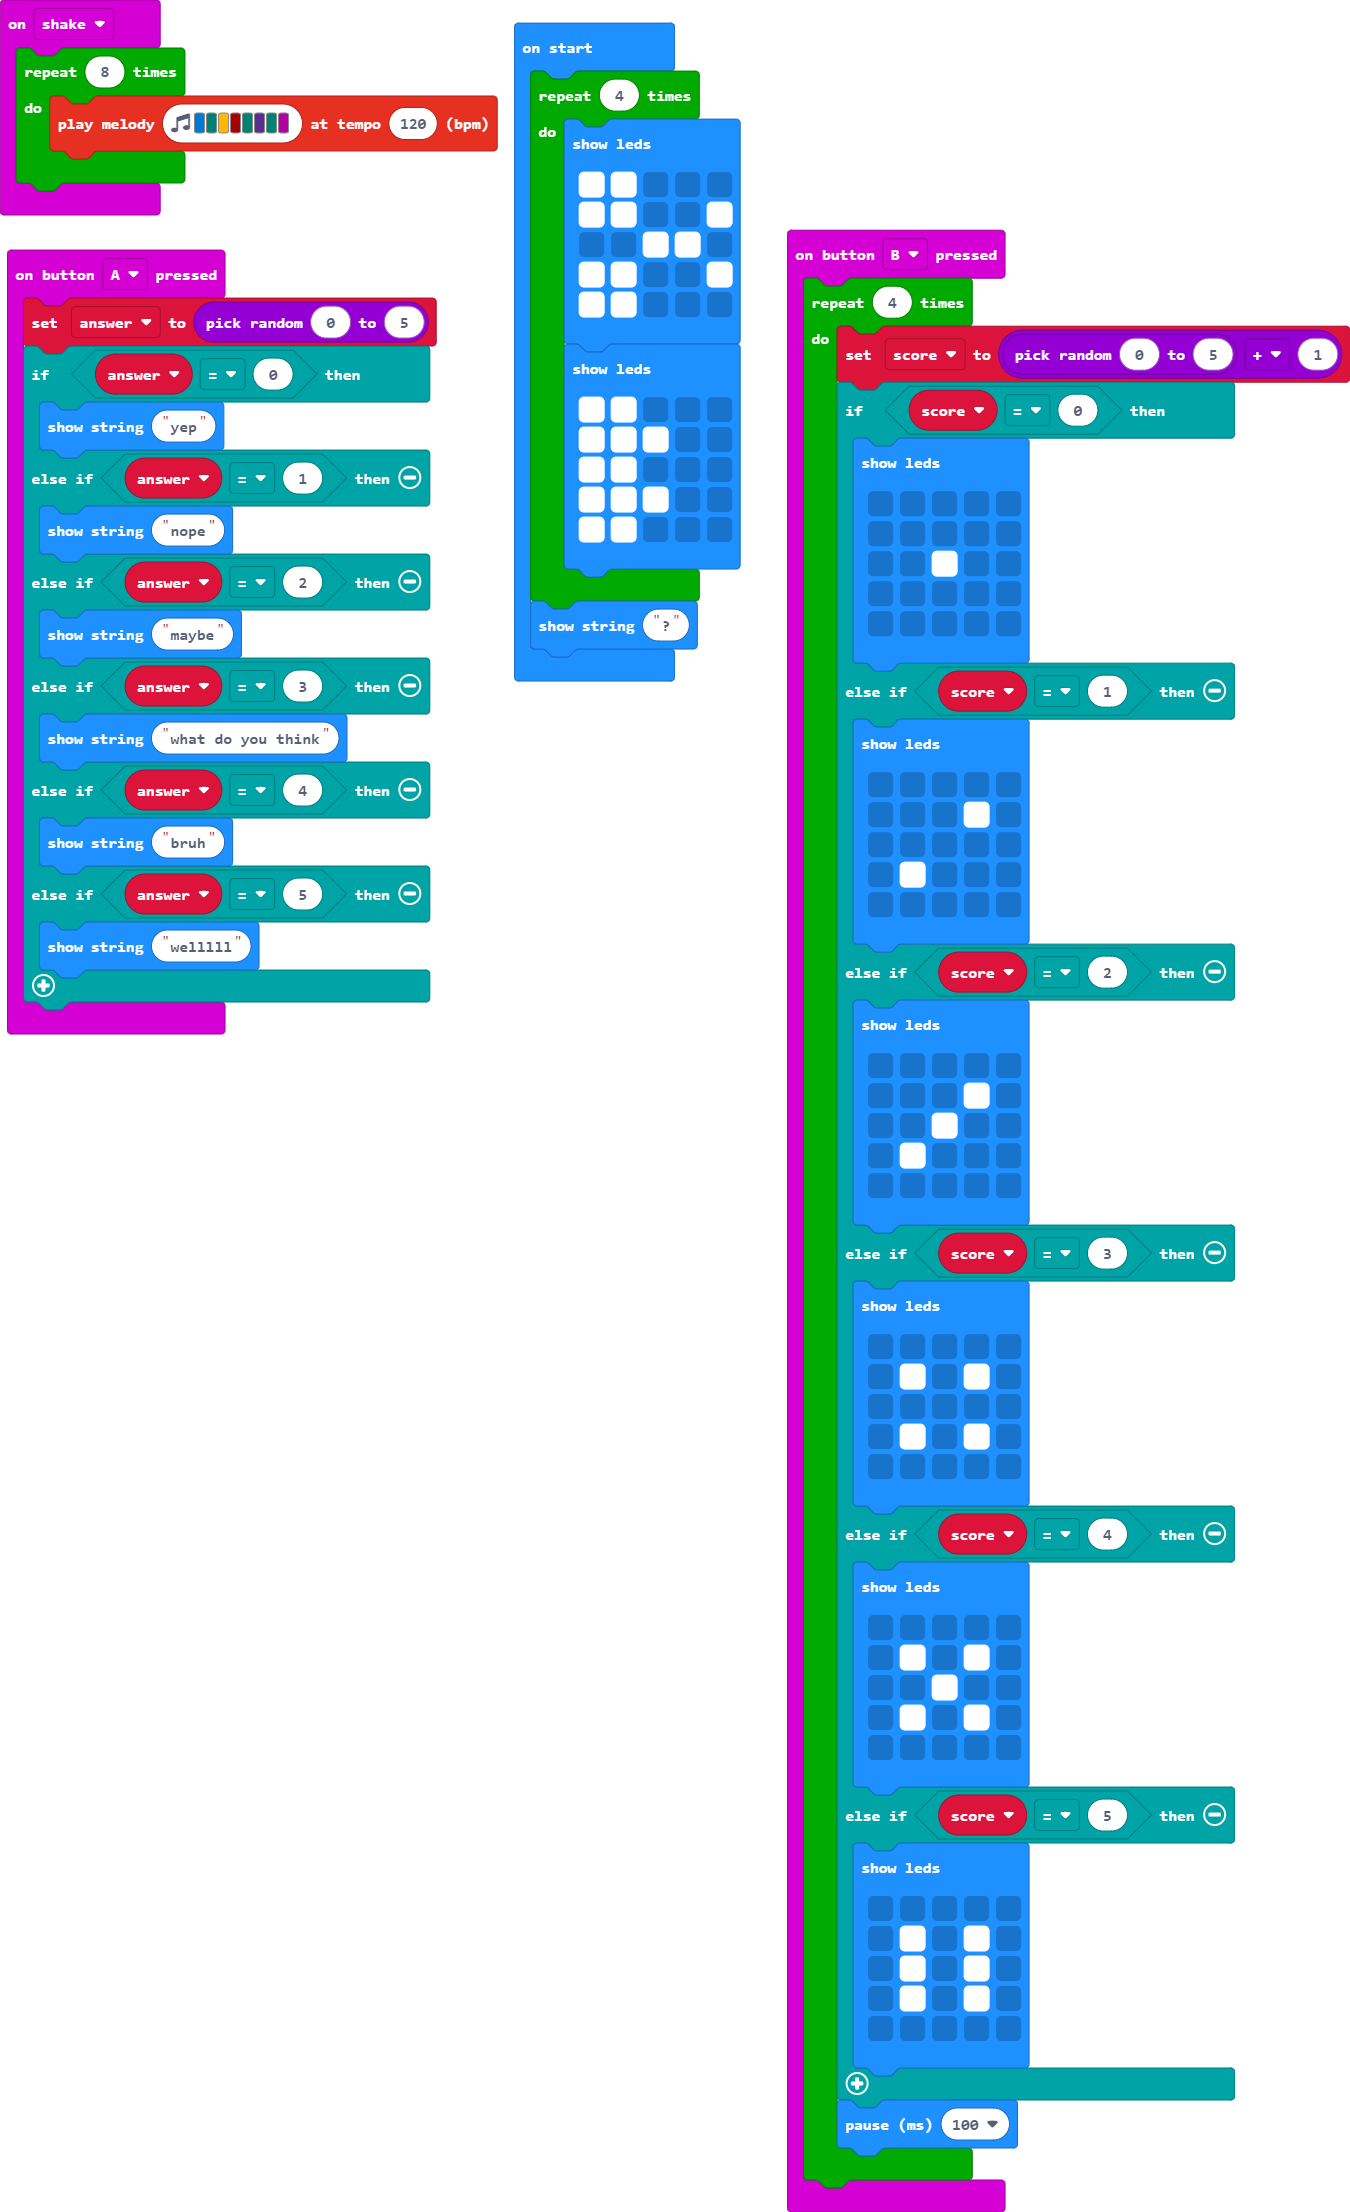
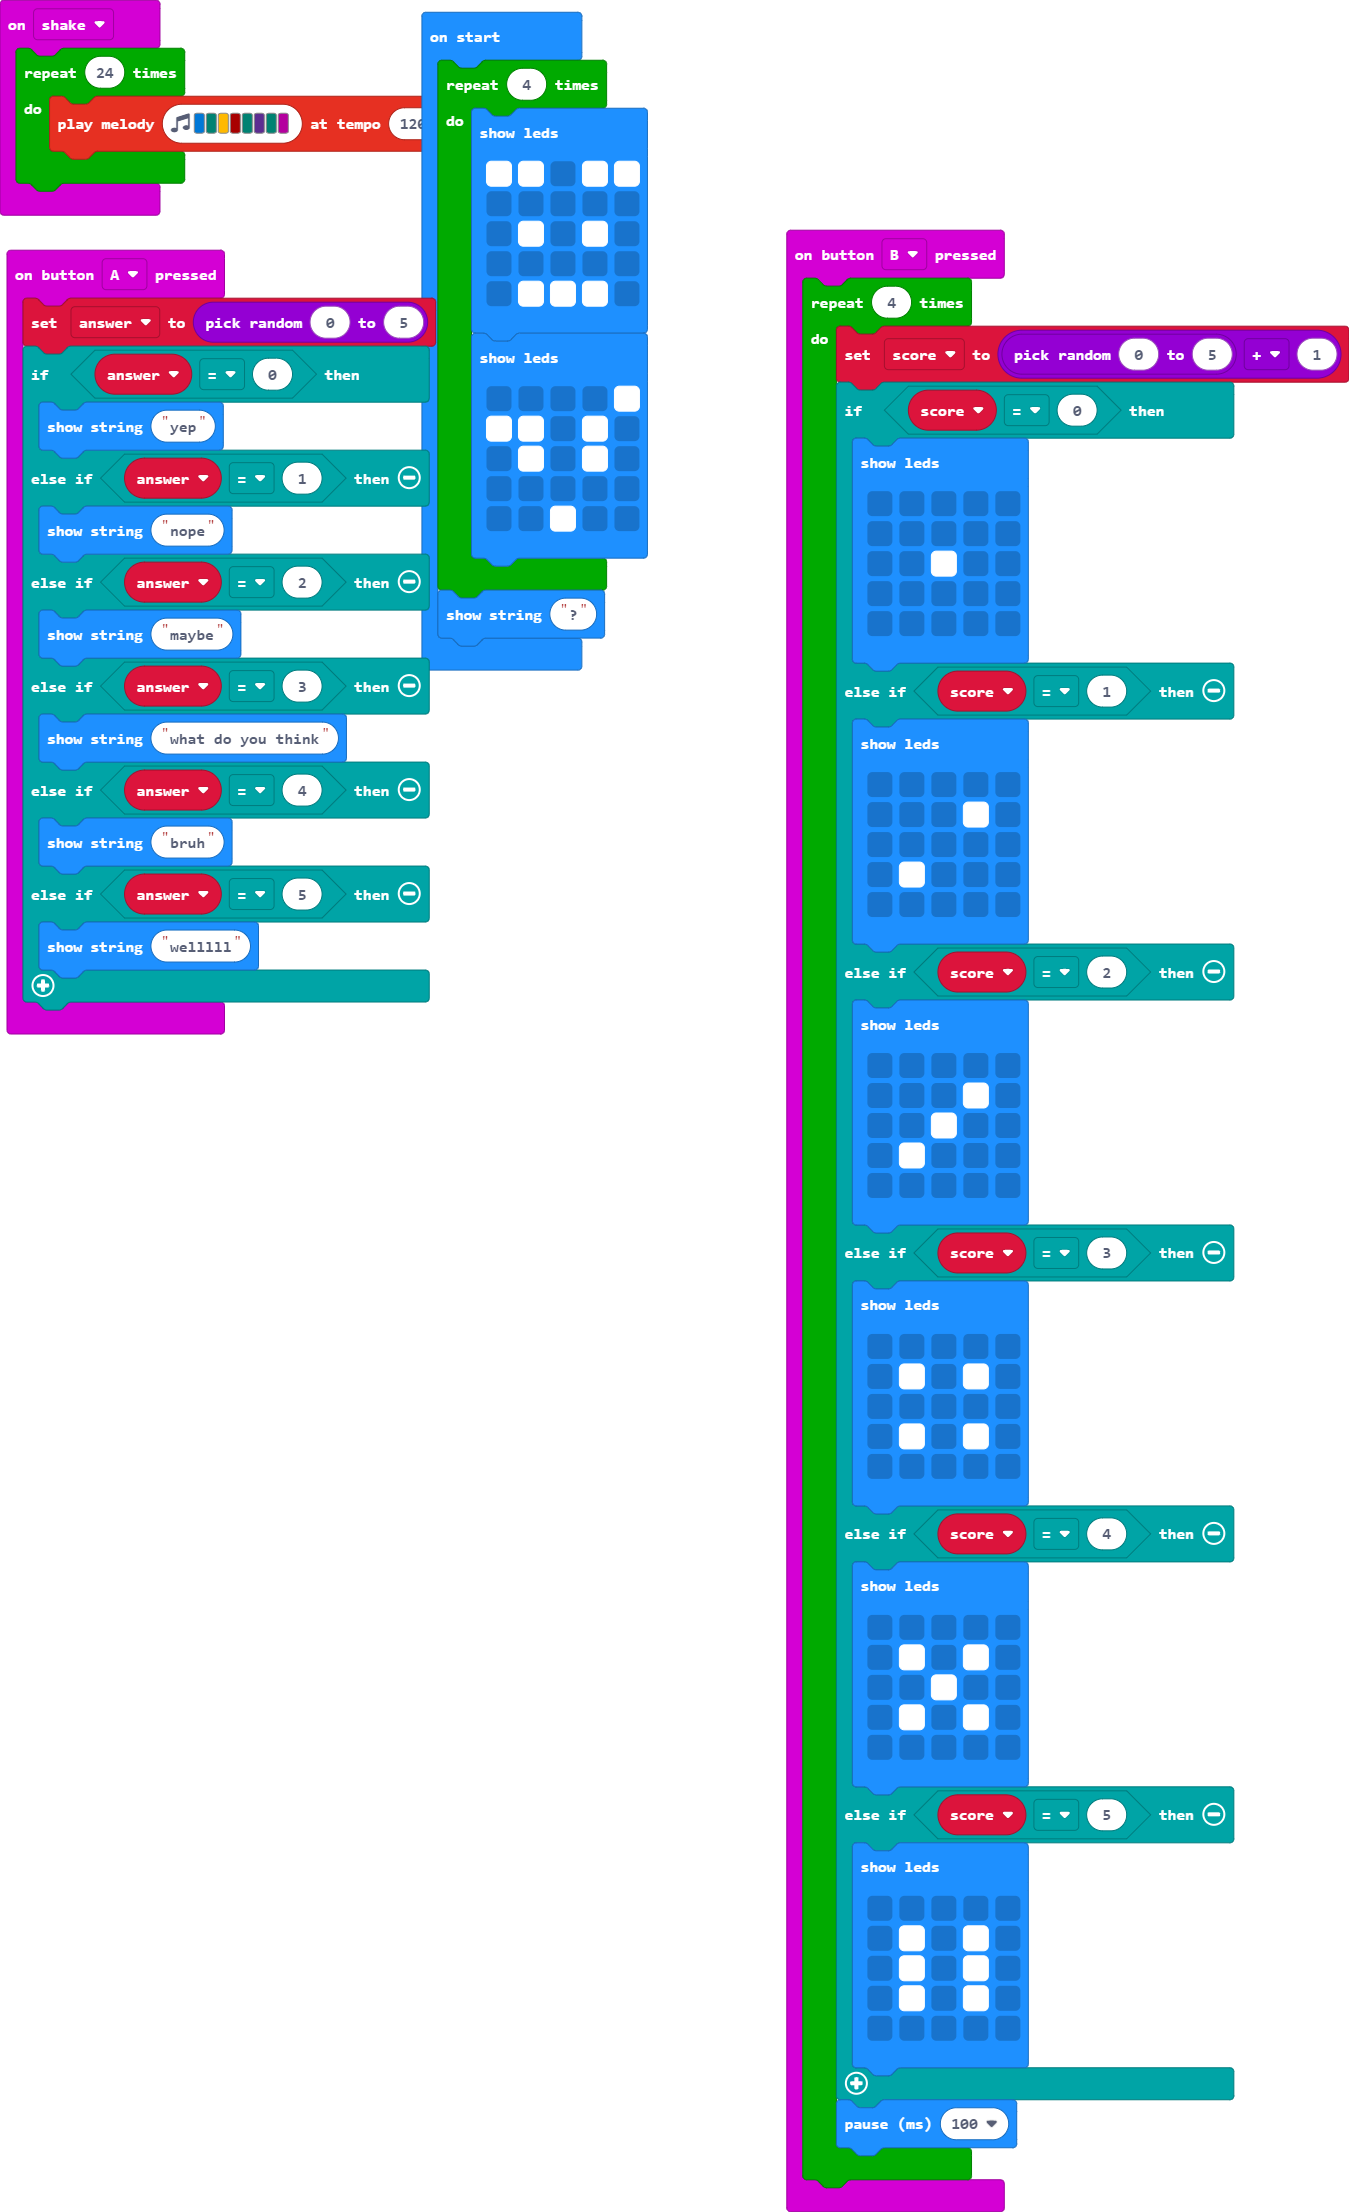
Update main.blocks, main.ts

Changed region(s): [[0.3113, 0.0, 0.5604, 0.3119], [0.6227, 0.9358, 0.6538, 0.967], [0.0623, 0.0312, 0.0934, 0.0624]]

diff --git a/main.ts b/main.ts
@@ -70,7 +70,7 @@ input.onButtonPressed(Button.B, function () {
     }
 })
 input.onGesture(Gesture.Shake, function () {
-    for (let index = 0; index < 8; index++) {
+    for (let index = 0; index < 24; index++) {
         music.playMelody("E F A C5 F D F C ", 120)
     }
 })
@@ -78,18 +78,18 @@ let score = 0
 let answer = 0
 for (let index = 0; index < 4; index++) {
     basic.showLeds(`
-        # # . . .
-        # # . . #
-        . . # # .
-        # # . . #
-        # # . . .
+        # # . # #
+        . . . . .
+        . # . # .
+        . . . . .
+        . # # # .
         `)
     basic.showLeds(`
-        # # . . .
-        # # # . .
-        # # . . .
-        # # # . .
-        # # . . .
+        . . . . #
+        # # . # .
+        . # . # .
+        . . . . .
+        . . # . .
         `)
 }
 basic.showString("?")
